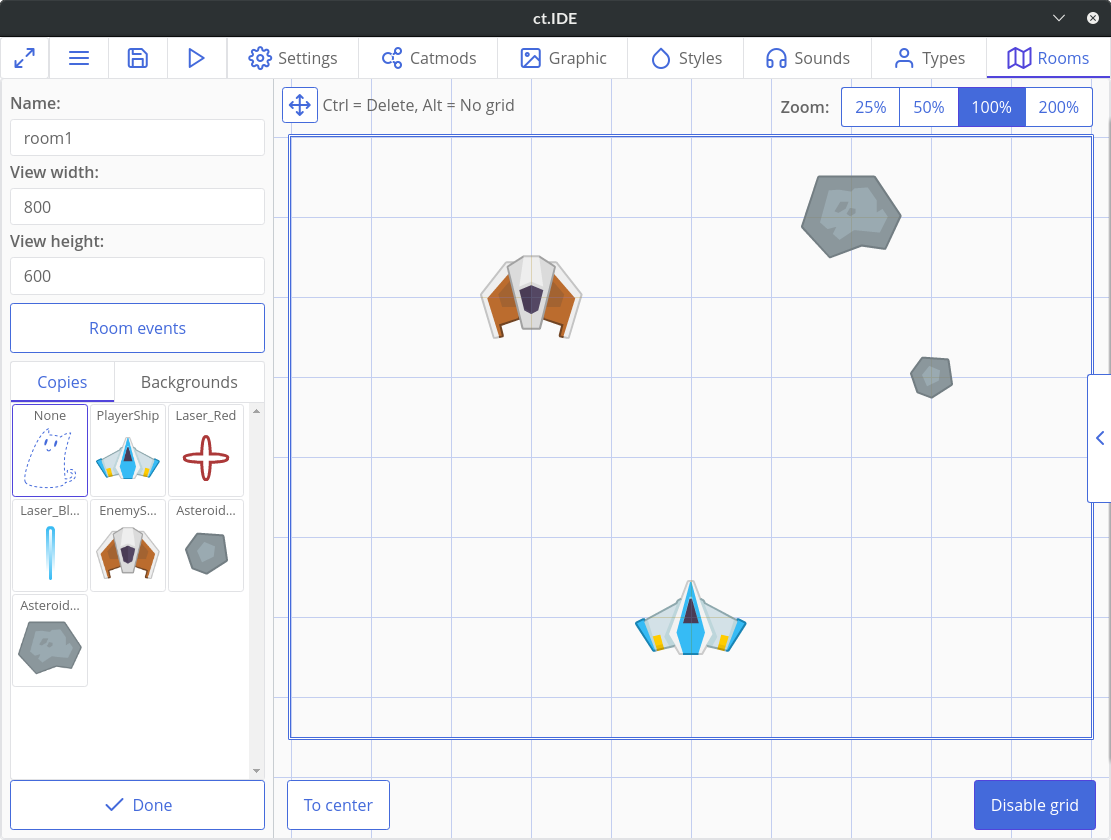
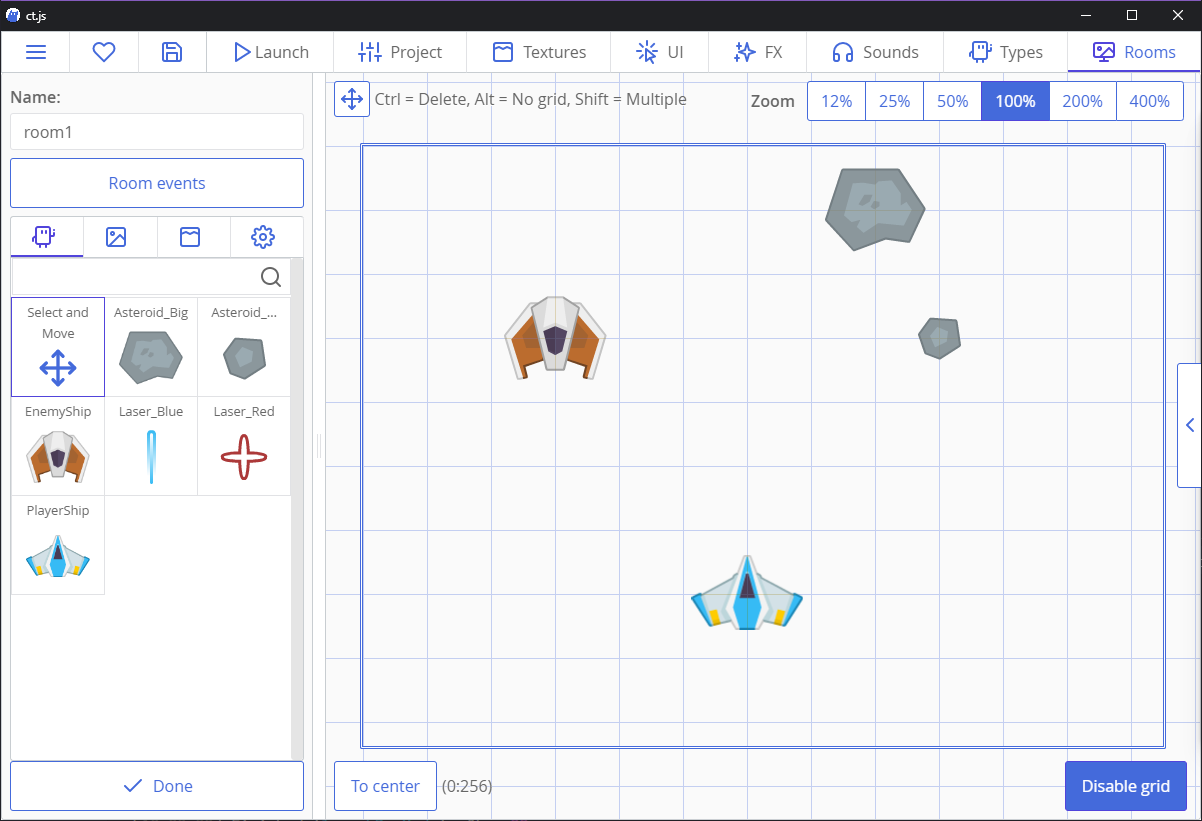
:zap: Update screenshots and directions for Space Shooter tutorial, to reflect changes in v1.4

diff --git a/docs/tut-making-shooter.md b/docs/tut-making-shooter.md
@@ -98,7 +98,7 @@ After that, save the project and click a 'play' button. At this point, you will 
 
 Handling user's input is the most important task. In this section we will make the blue ship move when a player presses arrow keys or WASD.
 
-In order to handle keyboard inputs, we need to enable keyboard module. Press the "Catmods" tab, find a `keyboard` module on the left, select it, and then push the big red button to enable it (it may be enabled by default, though). Then add `mouse`, `random` and `place` modules, as we will need them later too.
+In order to handle keyboard inputs, we need to enable the Keyboard module. Press the "Project" tab, then a "Catmods" tab on the left, then find a Keyboard module in the section with available modules. Click it to enable it (it may be enabled by default, though — a green checkbox with a little spinning circle indicates that the module is enabled). Then make sure that modules `mouse`, `random` and `place` are enabled, as we will need them later too.
 
 ![](./images/tutSpaceShooter_12.png)
 
@@ -106,9 +106,9 @@ In order to handle keyboard inputs, we need to enable keyboard module. Press the
 
 Actions in ct.js are entities that group different input methods into events, and allow you to listen to player input in code. You can read more about them [here](/actions.html).
 
-For now, let's create a basic input scheme for our shooter. Open the "Settings" tab, then press the button labelled as "Edit actions". We will need to define three different actions: for shooting laser bullets, for moving horisontally, and for moving vertically.
+For now, let's create a basic input scheme for our shooter. Open the "Project" tab, then the "Actions and input methods" tab on the left side. We will need to define three different actions: for shooting laser bullets, for moving horisontally, and for moving vertically.
 
-First, click the "Add an action" button. Then, input the name of the first module. Click the button called "Add an input method" to bind specific buttons to your action. Use its search to quickly filter available input methods.
+First, click the "Add an action" button. Then, input the name of the first action. Click the button called "Add an input method" to bind specific buttons to your action. Use its search to quickly filter available input methods.
 
 ![](./images/tutSpaceShooter_15.png)
 
